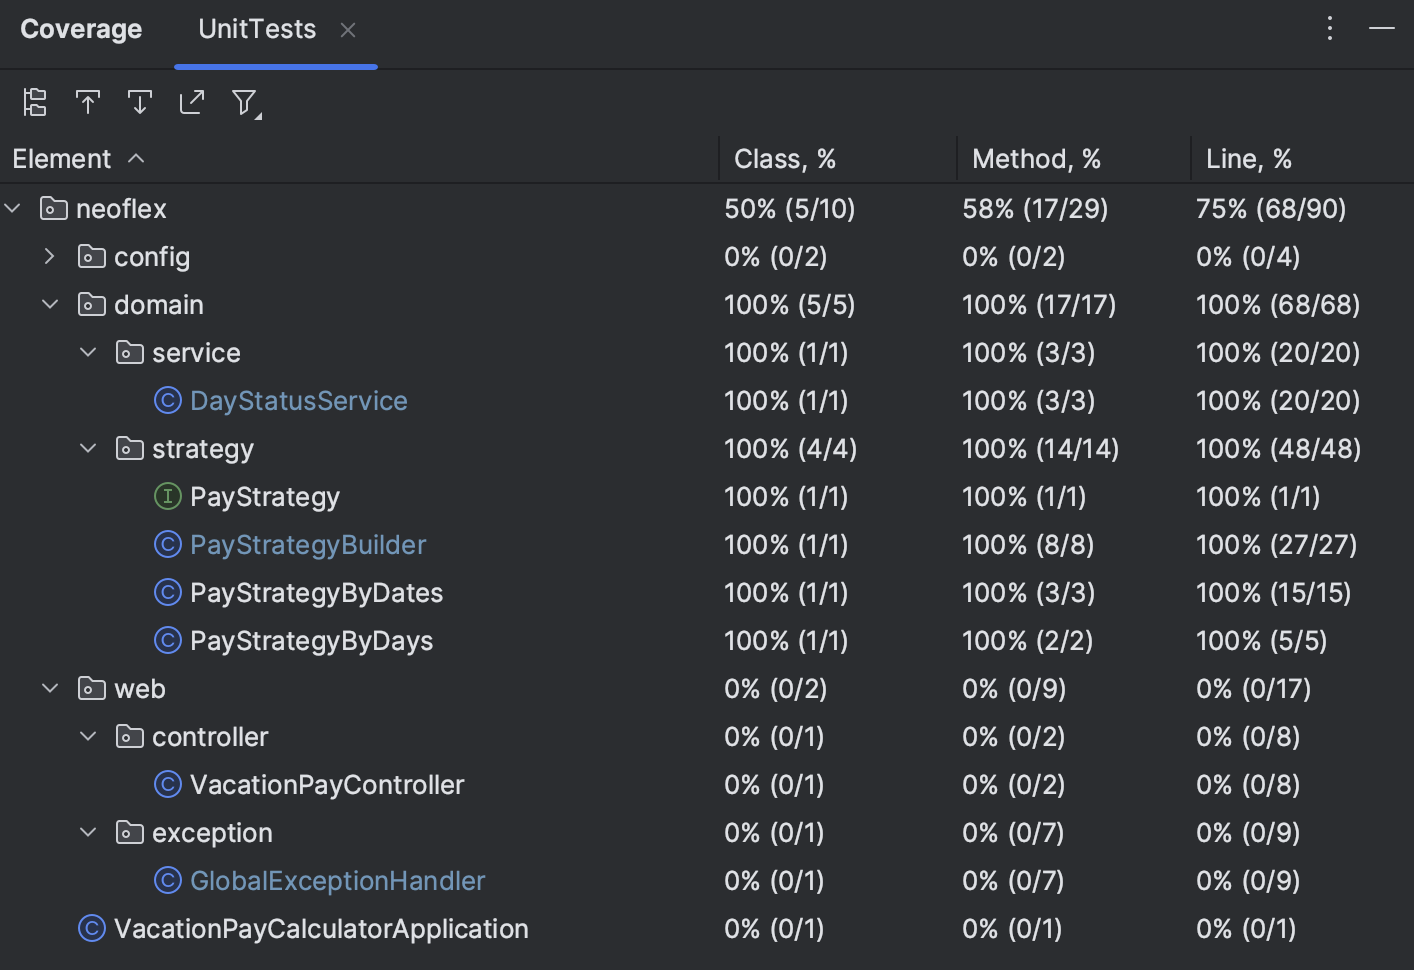
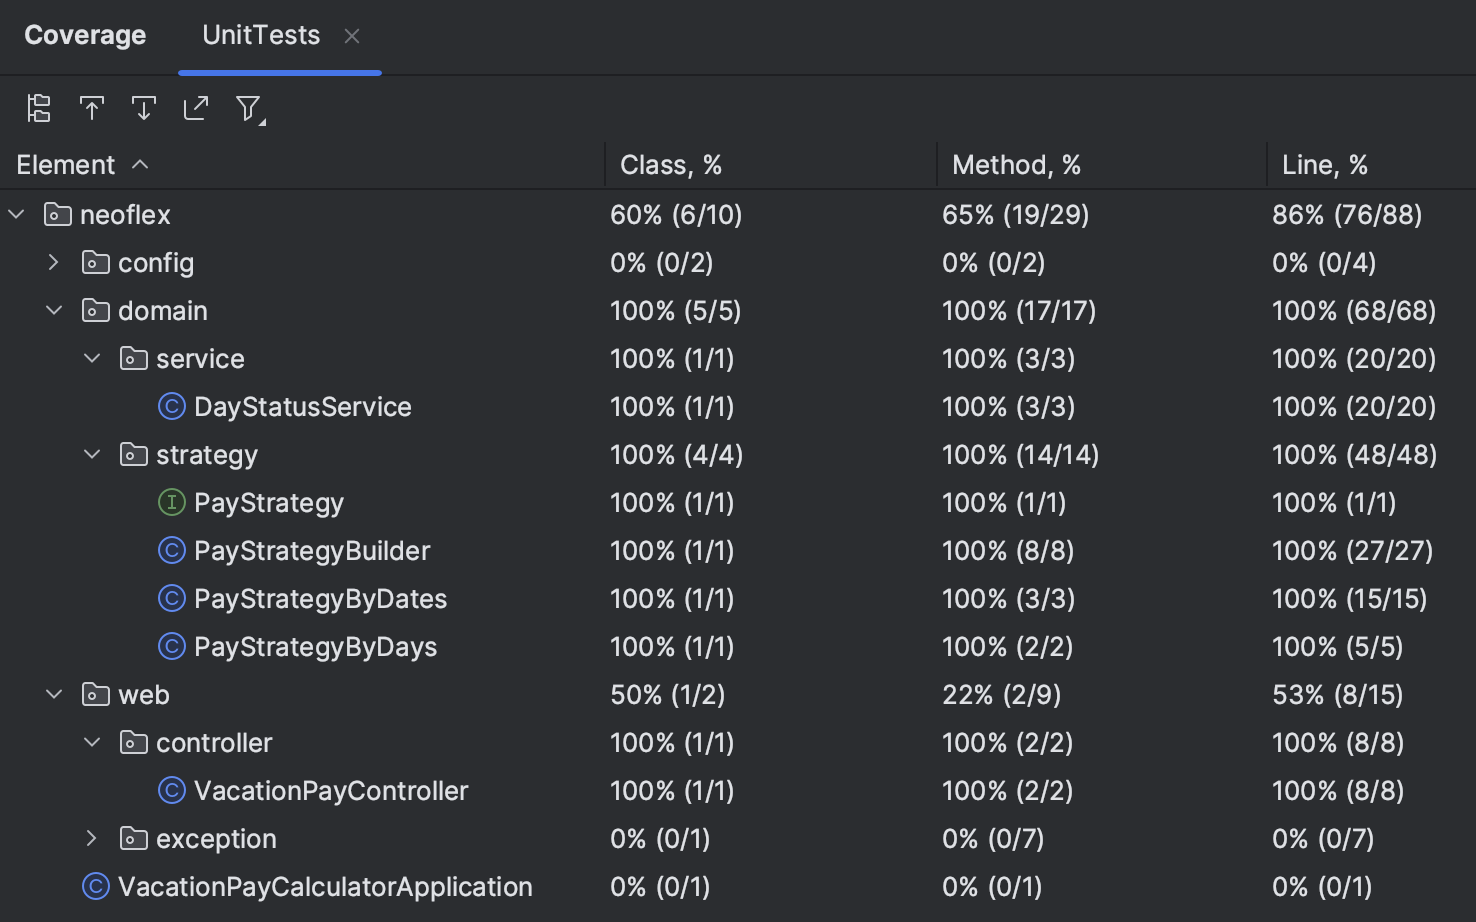
add unit-tests for controller

diff --git a/src/test/java/neoflex/web/controller/VacationPayControllerTest.java b/src/test/java/neoflex/web/controller/VacationPayControllerTest.java
@@ -1,0 +1,147 @@
+package neoflex.web.controller;
+
+import neoflex.domain.strategy.PayStrategy;
+import neoflex.domain.strategy.PayStrategyBuilder;
+import neoflex.web.controller.VacationPayController;
+import org.junit.jupiter.api.AfterEach;
+import org.junit.jupiter.api.BeforeEach;
+import org.junit.jupiter.api.Test;
+import org.junit.jupiter.api.extension.ExtendWith;
+import org.mockito.InjectMocks;
+import org.mockito.Mock;
+import org.mockito.MockitoAnnotations;
+import java.lang.AutoCloseable;
+import java.time.LocalDate;
+
+import org.junit.jupiter.api.AfterEach;
+import org.springframework.beans.factory.ObjectFactory;
+import org.springframework.test.web.servlet.MockMvc;
+import org.springframework.test.web.servlet.request.MockMvcRequestBuilders;
+import org.springframework.test.web.servlet.setup.MockMvcBuilders;
+
+import static org.mockito.Mockito.verify;
+import static org.mockito.Mockito.when;
+import static org.springframework.test.web.servlet.result.MockMvcResultMatchers.content;
+import static org.springframework.test.web.servlet.result.MockMvcResultMatchers.status;
+
+public class VacationPayControllerTest {
+
+    @Mock
+    private ObjectFactory<PayStrategyBuilder> builderFactory;
+
+    @Mock
+    private PayStrategyBuilder payStrategyBuilder;
+
+    @Mock
+    private PayStrategy payStrategy;
+
+    @InjectMocks
+    private VacationPayController vacationPayController;
+
+    private MockMvc mockMvc;
+    private AutoCloseable closeable;
+
+    @BeforeEach
+    void setUp(){
+        closeable = MockitoAnnotations.openMocks(this);
+        mockMvc = MockMvcBuilders.standaloneSetup(vacationPayController).build();
+    }
+
+    @AfterEach
+    void tearDown() throws Exception {
+        closeable.close();
+    }
+
+    @Test
+    void testCalculateVacationPay_WhenCorrectVacationDays() throws Exception {
+        double averageSalary = 60000.0;
+        int vacationDays = 10;
+        when(builderFactory.getObject()).thenReturn(payStrategyBuilder);
+        when(payStrategyBuilder.withAverageSalary(averageSalary)).thenReturn(payStrategyBuilder);
+        when(payStrategyBuilder.withVacationDays(vacationDays)).thenReturn(payStrategyBuilder);
+        when(payStrategyBuilder.withStartEndDates(null, null)).thenReturn(payStrategyBuilder);
+        when(payStrategyBuilder.build()).thenReturn(payStrategy);
+        when(payStrategy.calculate()).thenReturn(20477.82);
+
+        mockMvc.perform(MockMvcRequestBuilders.get("/calculate")
+                .param("averageSalary", String.valueOf(averageSalary))
+                .param("vacationDays", String.valueOf(vacationDays))
+                )
+                .andExpect(status().isOk())
+                .andExpect(content().string("20477.82"));
+
+        verify(payStrategyBuilder).withAverageSalary(averageSalary);
+        verify(payStrategyBuilder).withVacationDays(vacationDays);
+        verify(payStrategy).calculate();
+    }
+
+    @Test
+    void testCalculateVacationPay_WhenCorrectStartEndDate() throws Exception {
+        double averageSalary = 100000.0;
+        LocalDate startDate = LocalDate.of(2025,4,14);
+        LocalDate endDate = LocalDate.of(2025, 4, 20);
+        when(builderFactory.getObject()).thenReturn(payStrategyBuilder);
+        when(payStrategyBuilder.withAverageSalary(averageSalary)).thenReturn(payStrategyBuilder);
+        when(payStrategyBuilder.withVacationDays(null)).thenReturn(payStrategyBuilder);
+        when(payStrategyBuilder.withStartEndDates(startDate, endDate)).thenReturn(payStrategyBuilder);
+        when(payStrategyBuilder.build()).thenReturn(payStrategy);
+        when(payStrategy.calculate()).thenReturn(17064.85);
+
+        mockMvc.perform(MockMvcRequestBuilders.get("/calculate")
+                        .param("averageSalary", String.valueOf(averageSalary))
+                        .param("startDate", startDate.toString())
+                        .param("endDate", endDate.toString()))
+                .andExpect(status().isOk())
+                .andExpect(content().string("17064.85"));
+
+        verify(payStrategyBuilder).withAverageSalary(averageSalary);
+        verify(payStrategyBuilder).withStartEndDates(startDate, endDate);
+        verify(payStrategy).calculate();
+    }
+
+    @Test
+    void testCalculateVacationPay_WhenVacationDaysAndStartEndDate() throws Exception {
+        double averageSalary = 100000.0;
+        int vacationDays = 10;
+        LocalDate startDate = LocalDate.of(2025,4,14);
+        LocalDate endDate = LocalDate.of(2025, 4, 20);
+        when(builderFactory.getObject()).thenReturn(payStrategyBuilder);
+        when(payStrategyBuilder.withAverageSalary(averageSalary)).thenReturn(payStrategyBuilder);
+        when(payStrategyBuilder.withVacationDays(vacationDays)).thenReturn(payStrategyBuilder);
+        when(payStrategyBuilder.withStartEndDates(startDate, endDate)).thenReturn(payStrategyBuilder);
+        when(payStrategyBuilder.build()).thenReturn(payStrategy);
+        when(payStrategy.calculate()).thenReturn(17064.85);
+
+        mockMvc.perform(MockMvcRequestBuilders.get("/calculate")
+                        .param("averageSalary", String.valueOf(averageSalary))
+                        .param("vacationDays", String.valueOf(vacationDays))
+                        .param("startDate", startDate.toString())
+                        .param("endDate", endDate.toString()))
+                .andExpect(status().isOk())
+                .andExpect(content().string("17064.85"));
+
+        verify(payStrategyBuilder).withAverageSalary(averageSalary);
+        verify(payStrategyBuilder).withVacationDays(vacationDays);
+        verify(payStrategyBuilder).withStartEndDates(startDate, endDate);
+        verify(payStrategy).calculate();
+    }
+
+    @Test
+    void testCalculateVacationPay_WhenNoParams() throws Exception {
+        mockMvc.perform(MockMvcRequestBuilders.get("/calculate"))
+                .andExpect(status().isBadRequest());
+    }
+
+    @Test
+    void testCalculateVacationPay_WhenIncorrectDate() throws Exception {
+        double averageSalary = 50000.0;
+        String startDate = "2025-go-11";
+        LocalDate endDate = LocalDate.of(2025, 4, 20);
+
+        mockMvc.perform(MockMvcRequestBuilders.get("/calculate")
+                        .param("averageSalary", String.valueOf(averageSalary))
+                        .param("startDate", startDate)
+                        .param("endDate", endDate.toString()))
+                .andExpect(status().isBadRequest());
+    }
+}
